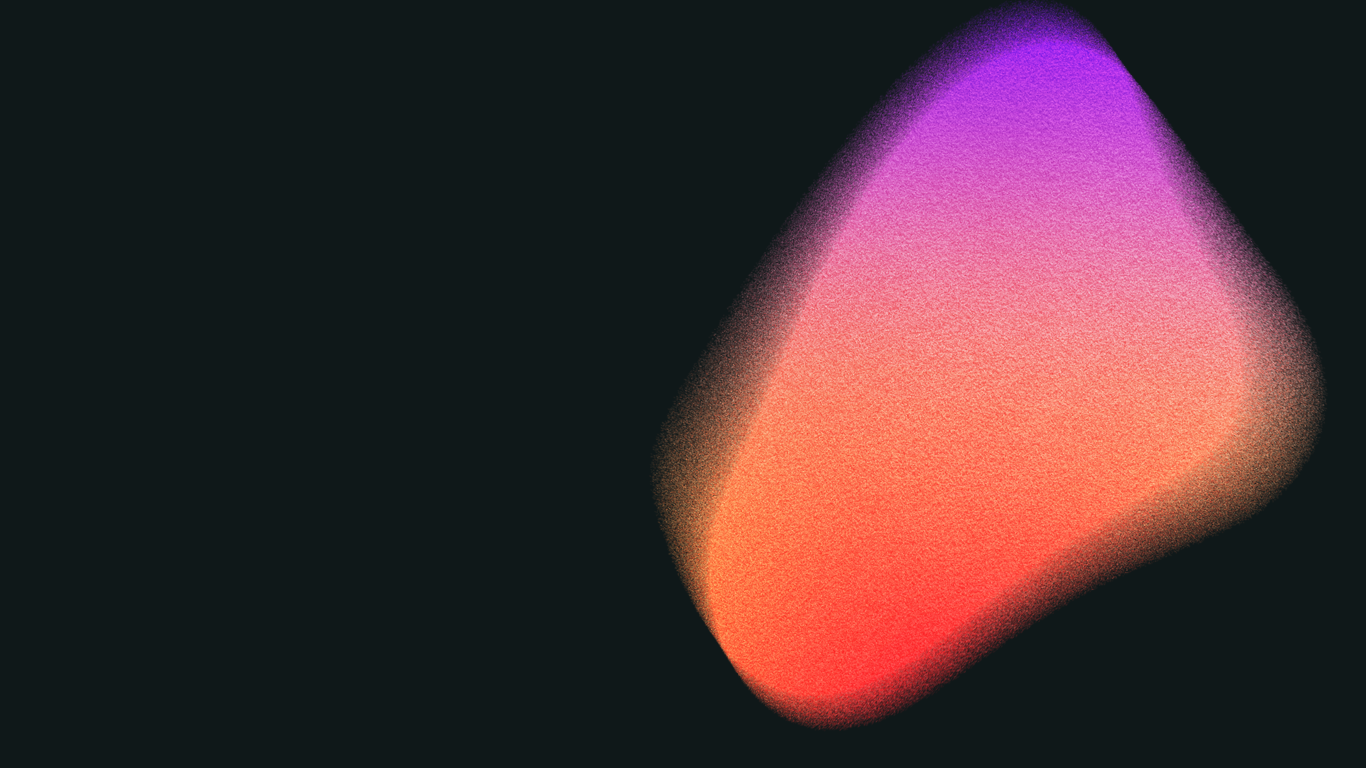
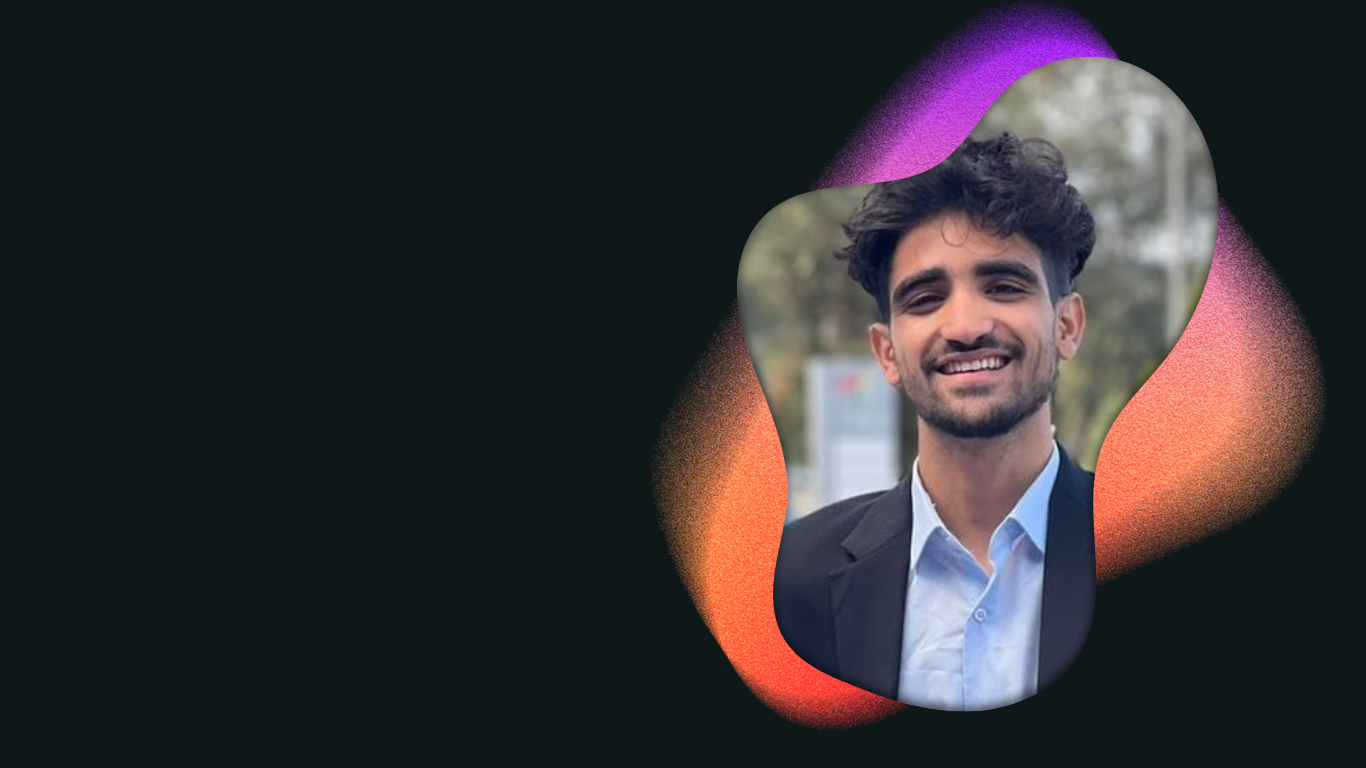
about me

Changed region(s): [[0.5227, 0.0625, 0.8917, 0.9375]]

diff --git a/index.css b/index.css
@@ -35,7 +35,8 @@ button {
 button:hover,
 button:focus {
     border-color: var(--hover);
-    color: #FF3439;
+    color: white;
+    background-color: #ff34374d;
 }
 
 button {
@@ -56,7 +57,7 @@ header {
     height: 100vh;
 }
 
-header>div {
+header>div, section>div {
     height: 100vh;
     color: white;
 }
@@ -71,9 +72,19 @@ header>div {
     background-color: #0F1819;
 }
 
+.image-container>img{
+    width:60%;
+}
+
 /* Media Queries */
+@media (min-width:1445px){
+    .image-container>img {
+        width: 450px;
+    }
+}
+
 @media (min-width:1200px) and (max-width: 1400px) {
-    h1 {
+    header>div>div>h1 {
         font-size: 3em !important;
     }
 
@@ -88,8 +99,12 @@ header>div {
 }
 
 @media (min-width:992px) and (max-width: 1199px) {
-    h1 {
+    header>div>div>h1 {
         font-size: 2em !important;
+    }
+
+    section>div{
+        font-size:0.9rem !important;
     }
 
     h3 {
@@ -111,6 +126,10 @@ header>div {
         height: 100vh;
     }
 
+    .about-me {
+        background: none;
+    }
+
     h1,h3,.button-container{
         text-align:center;
     }
@@ -125,11 +144,19 @@ header>div {
         height: 100vh;
     }
 
+    .about-me {
+        background: none;
+    }
+
+    .about-me>div>div{
+        font-size: 0.9em !important;
+    }
+
     h1,h3,.button-container{
         text-align:center;
     }
 
-    h1 {
+    header>div>div>h1 {
         font-size: 3em !important;
     }
 
@@ -137,6 +164,10 @@ header>div {
         font-size: 2em !important;
     }
 
+    button {
+        padding: 0.8em 1.6em;
+        font-size: 0.9em !important;
+    }
 }
 
 @media (max-width:575px) {
@@ -148,15 +179,28 @@ header>div {
         height: 100vh;
     }   
 
+    .about-me {
+        background: none;
+    }
+
+    .about-me>div>div {
+        font-size: 0.75em !important;
+    }
+
     h1,h3,.button-container{
         text-align:center;
     }
 
-    h1 {
+    header>div>div>h1 {
         font-size: 2em !important;
     }
 
     h3 {
         font-size: 1.5em !important;
+    }
+    
+    button {
+        padding: 0.7em 1.4em;
+        font-size: 0.8em !important;
     }
 }

diff --git a/index.html b/index.html
@@ -30,8 +30,23 @@
     </header>
     <main>
         <section class="about-me">
-            <div class="d-flex align-items-center justify-content-center offset-4" style="height:100vh">
-                <img src="images/about-me.png" style="width:43%">
+            <h1 class="mt-lg-5 pt-lg-5 container text-white">About Me</h1>
+            <div class="container text-center text-lg-start mt-lg-5 pt-5">
+                <div class="col-lg-6">
+                    <h3 style="font-size:2em !important">I'm Ahmed, a Software Engineer.</h3>
+                    <div style="font-size:1.2em">
+                        I'm a 21-year-old Second year ICT Engineering Student at the Higher School of Communication
+                        of Tunis.
+                    </div>
+                    <div class="pt-4" style="font-size:1.2em">
+                        I'm someone who always makes sure the content I'm providing is <b>valuable</b>,
+                        <b>memorable</b> and <b>delivered on time.</b>
+                    </div>
+                </div>
+                <div class="d-flex justify-content-center">
+                    <img class="d-block d-lg-none" src="images/about-me-img.png" style="object-fit:contain;"
+                        width="80%">
+                </div>
             </div>
         </section>
         <section class="experience"></section>
